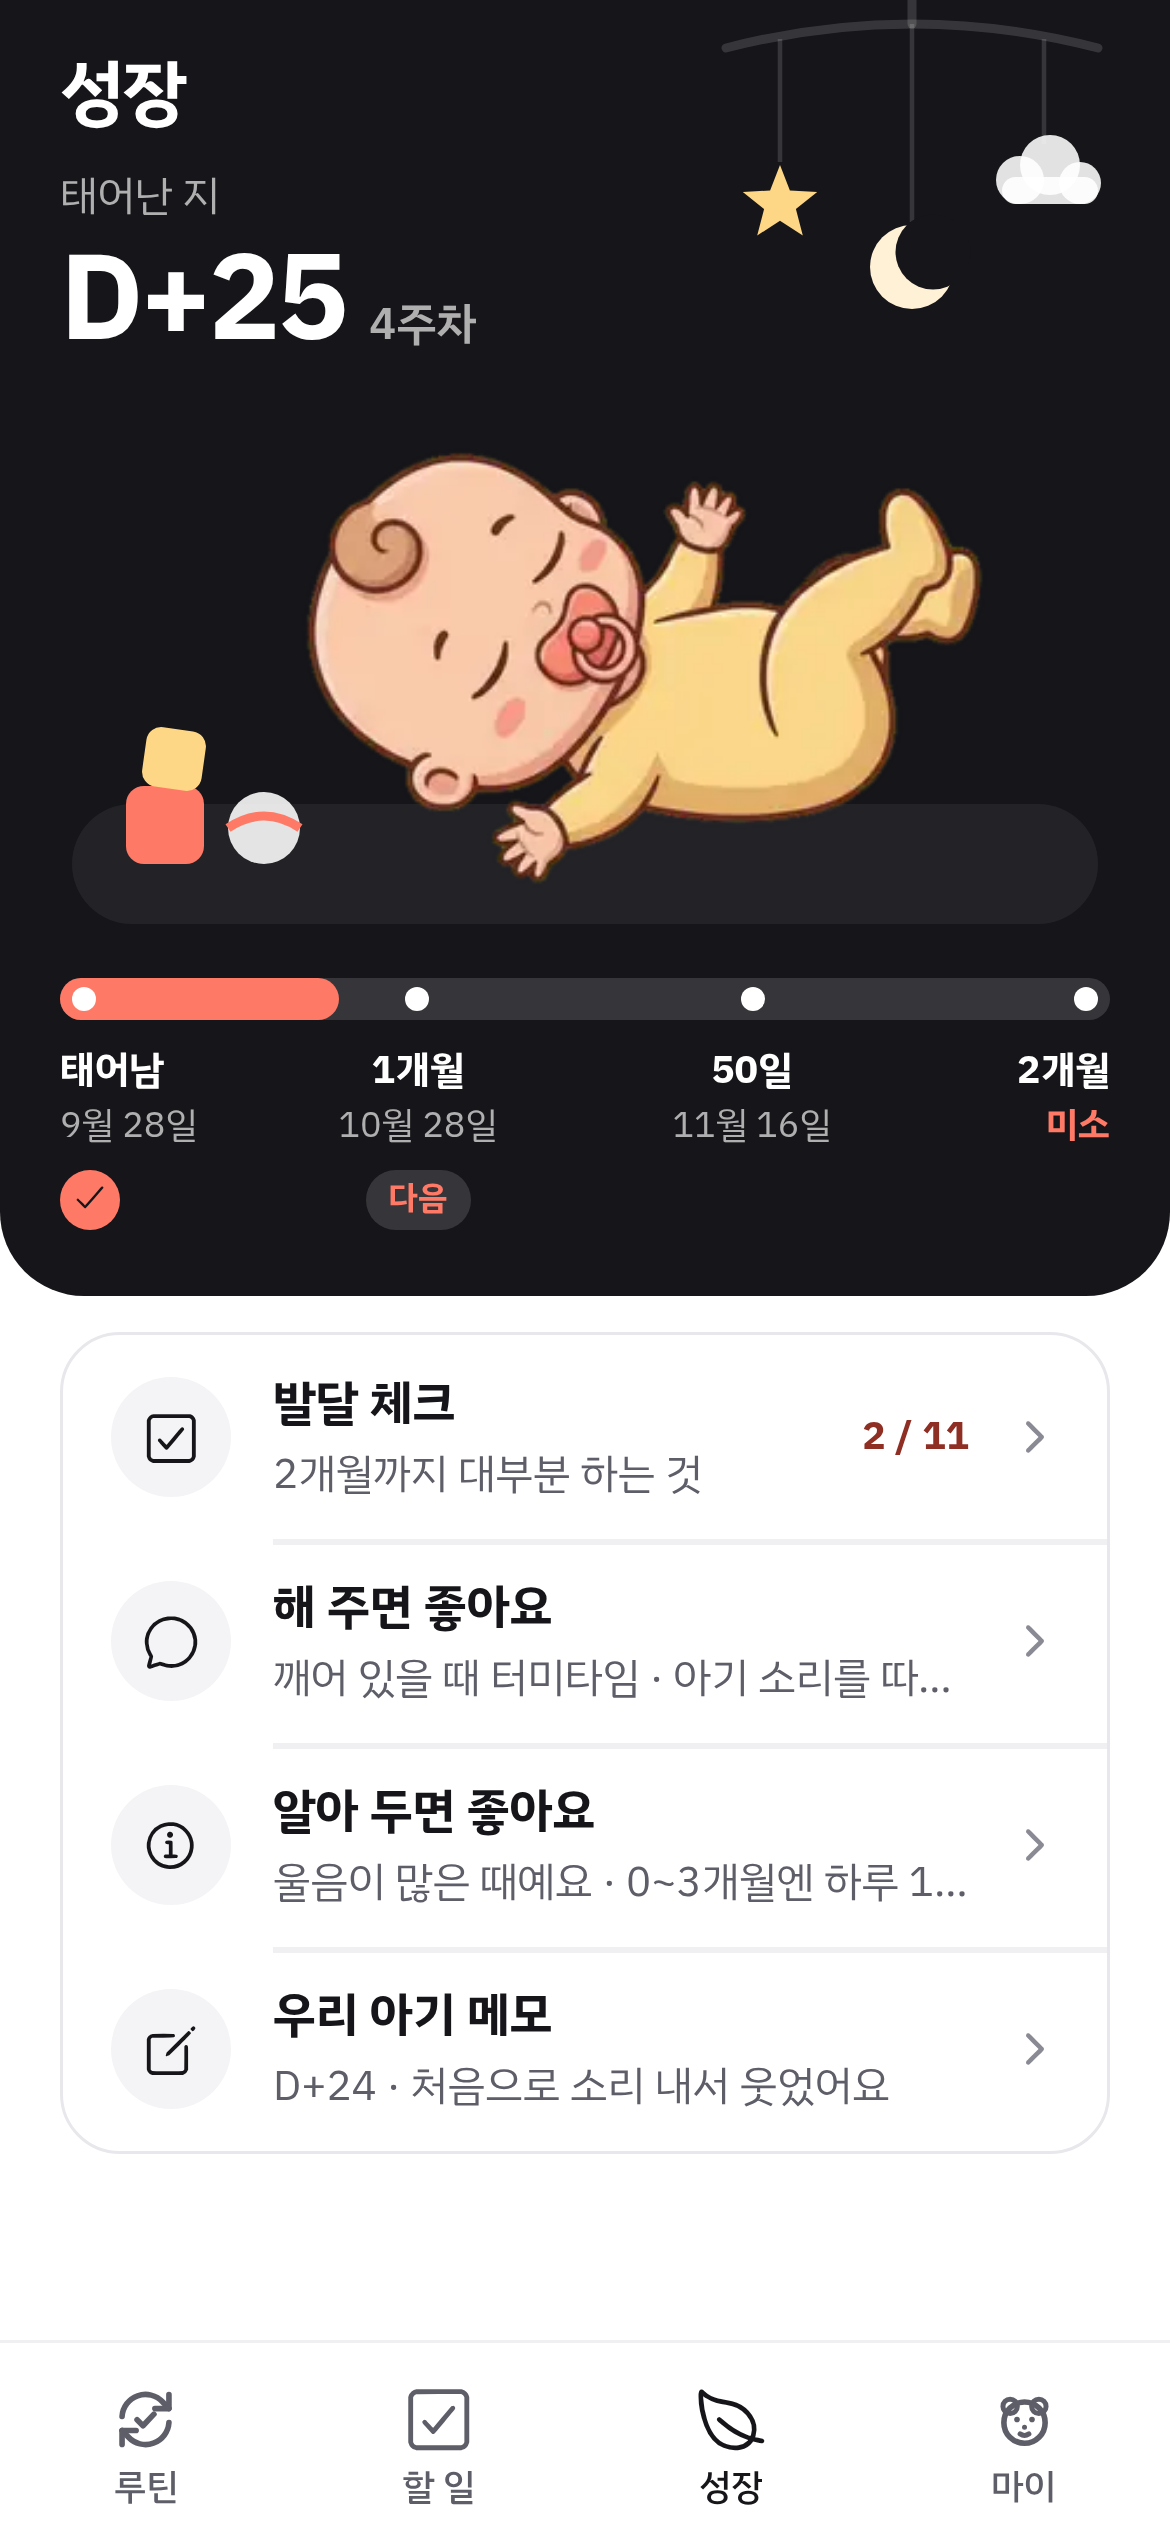
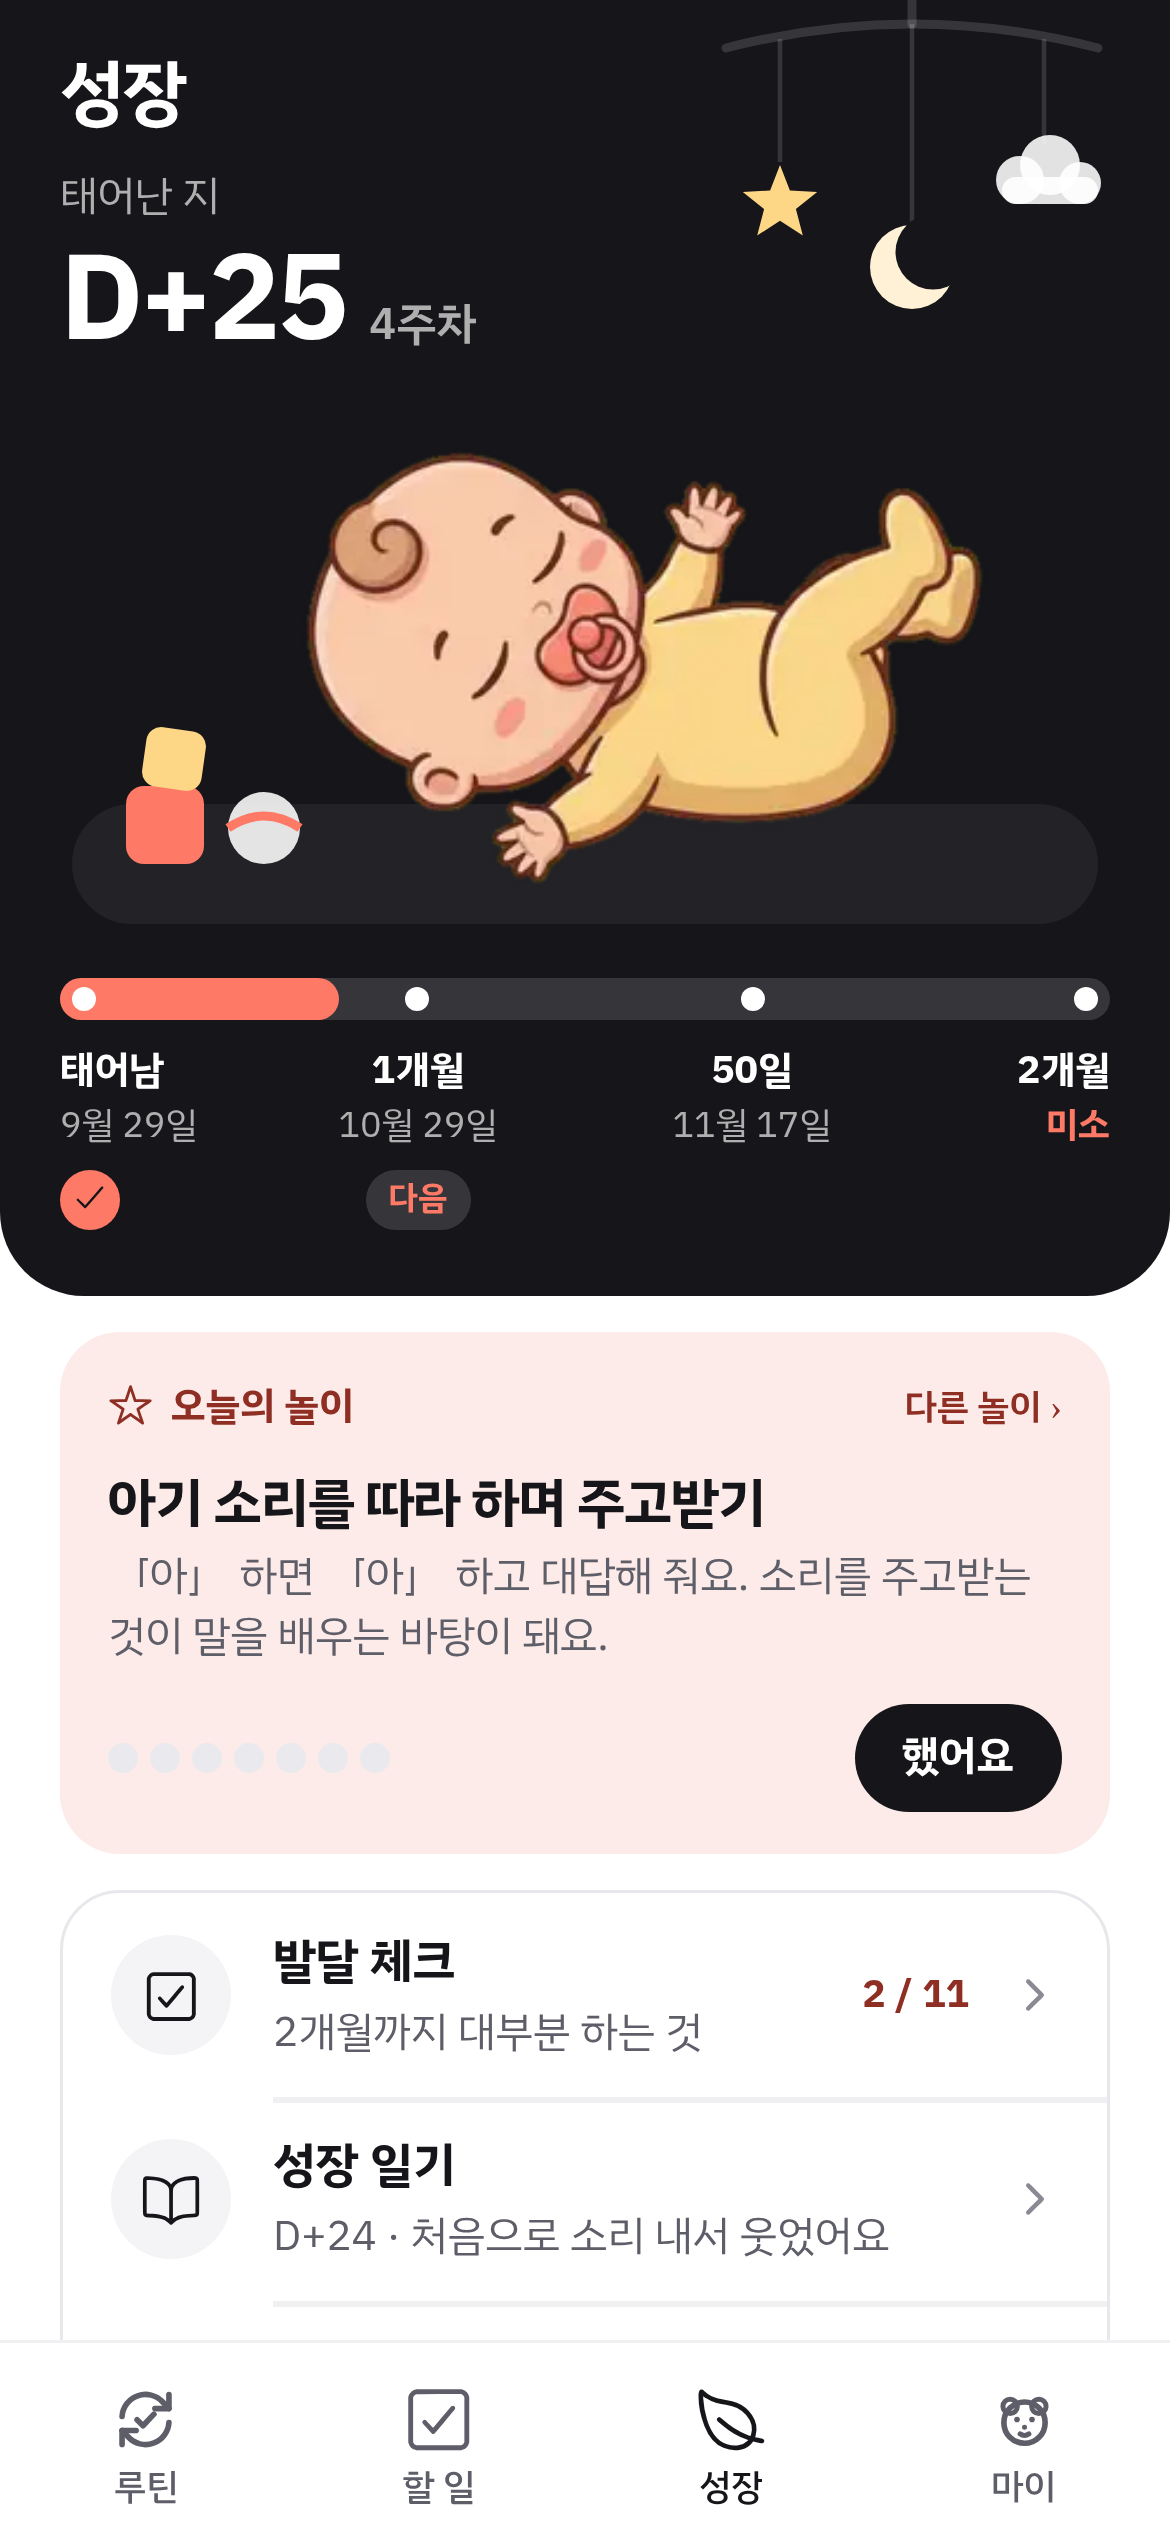
fix: 아기 일정 줄은 낱말 사이에서 줄바꿈(아이폰), 스토어 성장 탭 그림을 오늘의 놀이로

diff --git a/apps/malkong/marketing/store/store.html b/apps/malkong/marketing/store/store.html
@@ -52,7 +52,7 @@
         todo: { title: '적으면 <em>날짜</em>를 읽고<br>그때 알려 드려요', shot: 'todo', ring: [40, 1955, 1090, 380] },
         shop: { title: '살 것은 살 곳별로,<br><em>배송 중</em>까지 한눈에', shot: 'shop', ring: [44, 1512, 1082, 338] },
         baby: { title: '접종 · 검진 · 기념일,<br>생일로 <em>미리</em> 채워요', shot: 'baby', ring: [52, 480, 1066, 632] },
-        growth: { title: '이맘때 우리 아기,<br><em>한눈에</em>', shot: 'growth', ring: [50, 1316, 1070, 240] },
+        growth: { title: '이맘때 우리 아기,<br><em>한눈에</em>', shot: 'growth', ring: [50, 1350, 1070, 486] },
         family: { title: '누가 했는지<br><em>가족</em>이 함께 봐요', shot: 'family', ring: [248, 1778, 660, 385] },
       };
       const p = PAGES[key];

diff --git a/apps/malkong/src/components/todo/baby-schedule.tsx b/apps/malkong/src/components/todo/baby-schedule.tsx
@@ -230,7 +230,7 @@ function BabyRow({ row, divider, onCheck, onOpen }: { row: Row; divider: boolean
         </Pressable>
       )}
       <Pressable accessibilityRole="button" disabled={row.future} onPress={onOpen} style={({ pressed }) => [styles.text, pressed && { opacity: 0.6 }]}>
-        <ThemedText type="body" style={{ color: row.future ? c.textSecondary : c.text }}>
+        <ThemedText type="body" lineBreakStrategyIOS="hangul-word" style={{ color: row.future ? c.textSecondary : c.text }}>
           {row.title}
         </ThemedText>
         <View style={styles.meta}>
